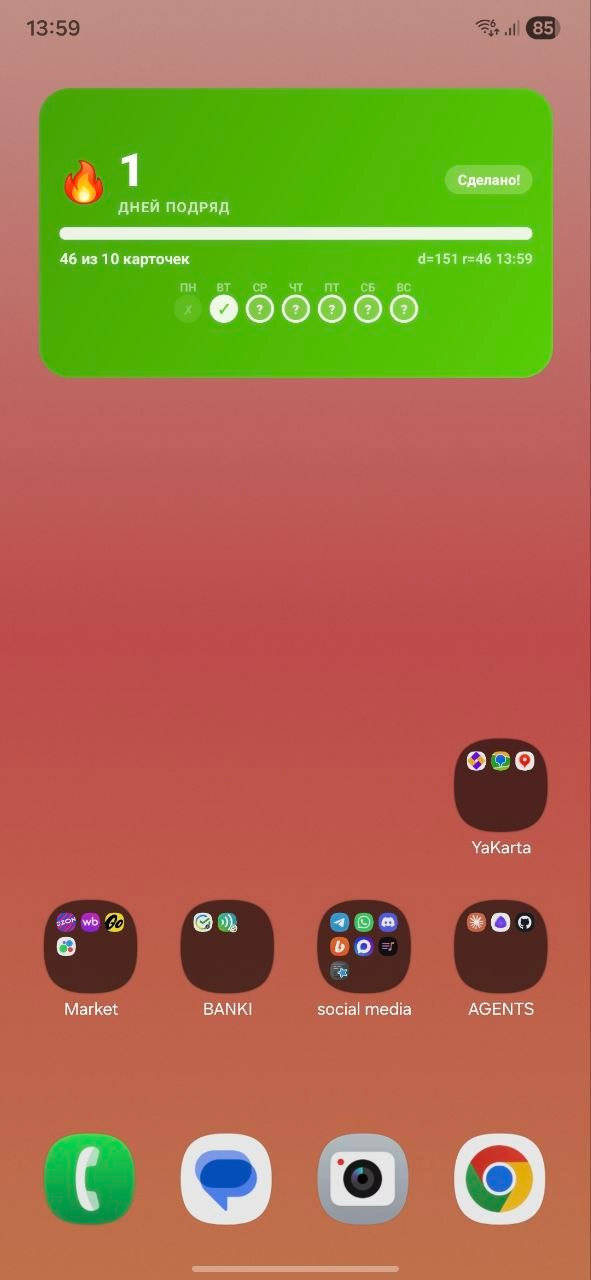
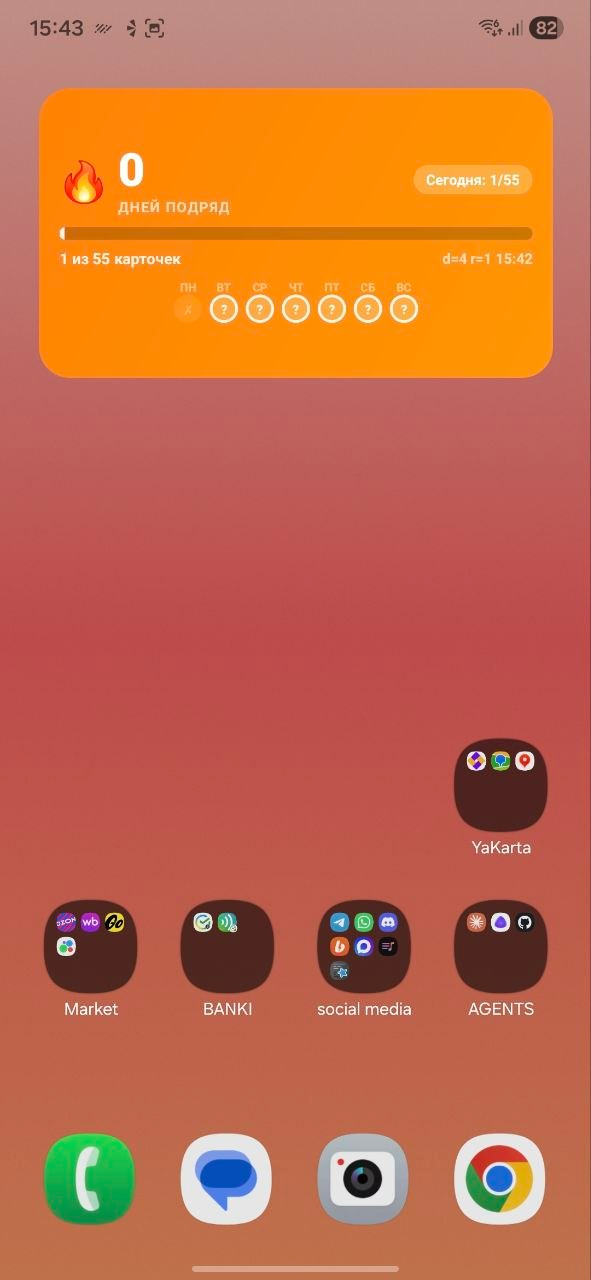
fix: dynamic goal = remaining + reviewed (not API limit)
Goal of 55 (raw daily limit) was meaningless when only 30 cards
were actually due. Now goal = current_due + reviewed_today,
capped by AnkiDroid limit. Shows realistic progress like "1 of 5"
instead of "1 of 55".

diff --git a/app/src/main/java/com/ankistreak/widget/StreakWidgetProvider.kt b/app/src/main/java/com/ankistreak/widget/StreakWidgetProvider.kt
@@ -53,14 +53,19 @@ class StreakWidgetProvider : AppWidgetProvider() {
 
             streak.checkStreakContinuity()
 
-            // Auto-sync card goal from AnkiDroid daily limits
-            val ankiLimit = tracker.getAnkiDailyLimit()
-            if (ankiLimit > 0) {
-                streak.cardGoal = ankiLimit
-            }
-
             val due = tracker.getTotalDueCards()
             val reviewed = tracker.getReviewedToday()
+
+            // Dynamic goal: what was actually due today = remaining + reviewed
+            // Capped by AnkiDroid daily limit so it never exceeds it
+            val ankiLimit = tracker.getAnkiDailyLimit()
+            val todayWorkload = if (due >= 0) due + reviewed else reviewed
+            streak.cardGoal = when {
+                todayWorkload > 0 -> if (ankiLimit > 0) minOf(todayWorkload, ankiLimit) else todayWorkload
+                ankiLimit > 0 -> ankiLimit
+                else -> 10
+            }
+
             streak.reportReviews(reviewed)
 
             val views = RemoteViews(context.packageName, R.layout.widget_layout)
